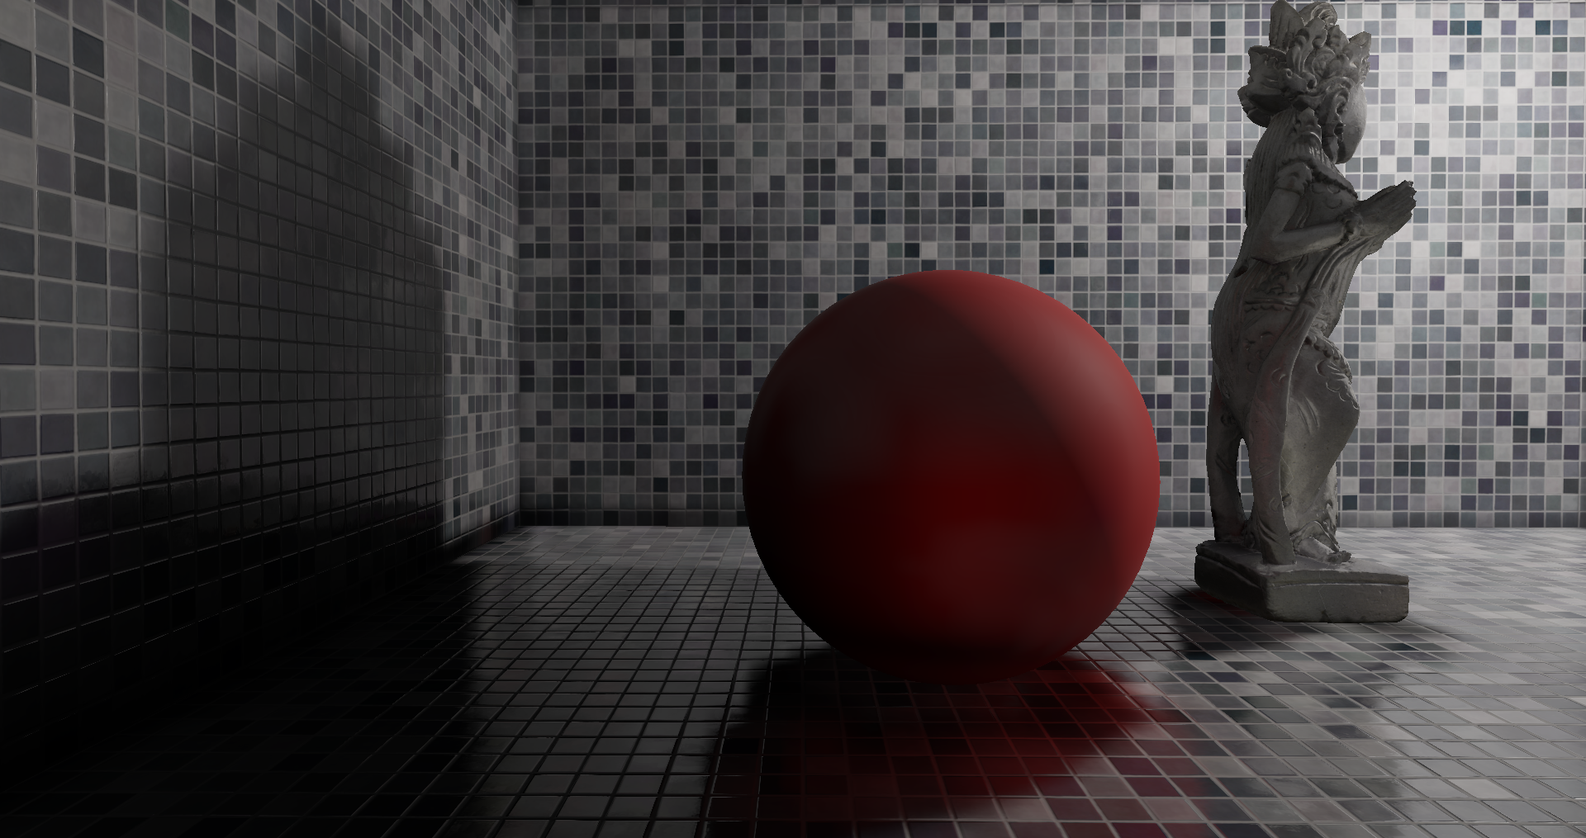
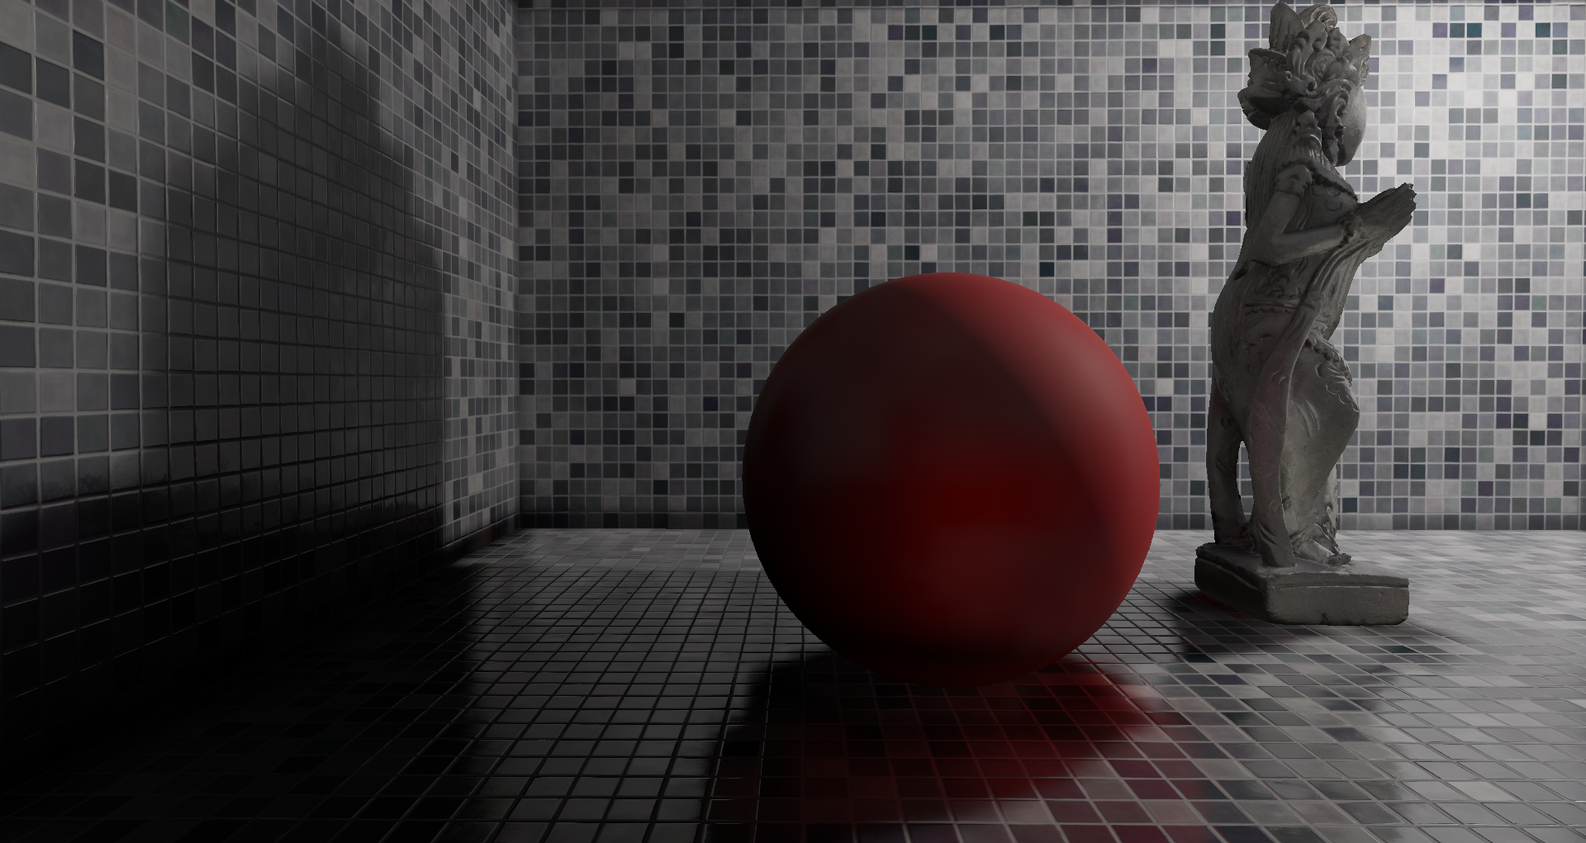
Create image comparison for emissive geometry on projects-gogaman page

diff --git a/projects-gogaman.html b/projects-gogaman.html
@@ -1,1 +1,1 @@
-<!DOCTYPE html><html lang="en"><head><meta charset="UTF-8"><meta name="viewport" content="width=device-width, initial-scale=1.0"><title>Feodor Volguine</title><link rel="stylesheet" href="style.sass.min.css" type="text/css" media="screen" charset="utf-8"><link rel="apple-touch-icon" sizes="180x180" href="images/favicon/apple-touch-icon.png"><link rel="icon" type="image/png" sizes="32x32" href="images/favicon/favicon-32x32.png"><link rel="icon" type="image/png" sizes="16x16" href="images/favicon/favicon-16x16.png"></head><body><header><a class="title" href="index.html"><h1 class="thin">Feodor Volguine</h1></a><a class="toggle-button" id="nav-main-toggle"><span></span><span></span><span></span></a><nav class="nav-main" id="nav-main"><ul><li><a href="career.html">Career</a></li><li><a href="projects-gogaman.html">Projects</a></li><li><a href="contact.html">Contact</a></li></ul></nav></header><section class="section-one2"><div class="nav-secondary"><ul><li><a href="projects-gogaman.html">Gogaman</a></li><li><a href="projects-workoutwatcher.html">Workout Watcher</a></li></ul></div><div class="content-container-unit"><div class="content-unit global-illumination"><div><h3>Real-time global illumination</h3><p>Light bouncing is simulated using a voxel cone tracing algorithm. This solution to GI requires no baking - light sources and geometry are fully dynamic.</p><br><a class="link" href="https://github.com/FeodorVolguine/Gogaman/blob/master/Gogaman/src/Platform/Vulkan/GL_Shaders/voxelConeTracing2.fs">View code &rsaquo;</a></div><img src="images/global-illumination.png"></div><div class="content-unit reflection"><div><h3>Reflections</h3><p>Cone tracing through the voxel structure enables reflections of out-of-view objects, but at a fraction of the cost of raytracing triangle geometry.</p><br><a class="link" href="https://github.com/FeodorVolguine/Gogaman/blob/master/Gogaman/src/Platform/Vulkan/GL_Shaders/voxelConeTracing2.fs">View code &rsaquo;</a></div><img src="images/reflections-1.png"></div><div class="content-unit emissive-geometry"><div><h3>Emissive geometry</h3><p></p><br><a class="link" href="https://github.com/FeodorVolguine/Gogaman/blob/master/Gogaman/src/Platform/Vulkan/GL_Shaders/voxelConeTracing2.fs">View code &rsaquo;</a></div><img src="images/emissive-on.png"></div><div class="content-unit tools"><div><h3>Tools</h3></div><!--img(src='images/emissive-on.png')--></div></div></section><footer class="base-container"><nav><a href="https://www.linkedin.com/in/feodorvolguine" target="_blank" aria-label="LinkedIn"><strong class="linkedIn-link">LinkedIn</strong></a><a href="mailto:feodorvolguine@gmail.com" target="_blank" aria-label="Email"><strong class="email-link">Email</strong></a><a href="https://www.github.com/feodorvolguine" target="_blank" aria-label="Github"><strong class="github-link">Github</strong></a></nav></footer><script src="client.js"></script></body></html>
+<!DOCTYPE html><html lang="en"><head><meta charset="UTF-8"><meta name="viewport" content="width=device-width, initial-scale=1.0"><title>Feodor Volguine</title><link rel="stylesheet" href="style.sass.min.css" type="text/css" media="screen" charset="utf-8"><link rel="apple-touch-icon" sizes="180x180" href="images/favicon/apple-touch-icon.png"><link rel="icon" type="image/png" sizes="32x32" href="images/favicon/favicon-32x32.png"><link rel="icon" type="image/png" sizes="16x16" href="images/favicon/favicon-16x16.png"></head><body><header><a class="title" href="index.html"><h1 class="thin">Feodor Volguine</h1></a><a class="toggle-button" id="nav-main-toggle"><span></span><span></span><span></span></a><nav class="nav-main" id="nav-main"><ul><li><a href="career.html">Career</a></li><li><a href="projects-gogaman.html">Projects</a></li><li><a href="contact.html">Contact</a></li></ul></nav></header><section class="section-one2"><div class="nav-secondary"><ul><li><a href="projects-gogaman.html">Gogaman</a></li><li><a href="projects-workoutwatcher.html">Workout Watcher</a></li></ul></div><div class="content-container-unit"><div class="content-unit global-illumination"><div class="unit-text"><h3>Real-time global illumination</h3><p>Light bouncing is simulated using a voxel cone tracing algorithm. This solution to GI requires no baking - light sources and geometry are fully dynamic.</p><br><a class="link" href="https://github.com/FeodorVolguine/Gogaman/blob/master/Gogaman/src/Platform/Vulkan/GL_Shaders/voxelConeTracing2.fs">View code &rsaquo;</a></div><img src="images/global-illumination.png"></div><div class="content-unit reflection"><div class="unit-text"><h3>Reflections</h3><p>Cone tracing through the voxel structure enables reflections of out-of-view objects, but at a fraction of the cost of raytracing triangle geometry.</p><br><a class="link" href="https://github.com/FeodorVolguine/Gogaman/blob/master/Gogaman/src/Platform/Vulkan/GL_Shaders/voxelConeTracing2.fs">View code &rsaquo;</a></div><img src="images/reflections-1.png"></div><div class="content-unit emissive-geometry"><div class="unit-text"><h3>Emissive geometry</h3><p>In addition to point and directional lights, geometry can have an emissive material that causes it to emit light.</p><br><a class="link" href="https://github.com/FeodorVolguine/Gogaman/blob/master/Gogaman/src/Platform/Vulkan/GL_Shaders/voxelConeTracing2.fs">View code &rsaquo;</a></div><div class="comparison-container" id="comparison-container"><img class="comparison" src="images/emissive-on.png"><img id="comparison-image-overlay" src="images/emissive-off.png"><div class="comparison-slider" id="comparison-slider"></div></div></div><div class="content-unit depth-of-field"><div class="unit-text"><h3>Depth of field</h3><p>A physical camera model combined with a separable circular convolution yields a nearly ground truth bokeh.</p><br><a class="link" href="https://github.com/FeodorVolguine/Gogaman/blob/master/Gogaman/src/Platform/Vulkan/GL_Shaders/voxelConeTracing2.fs">View code &rsaquo;</a></div><img src="images/depth-of-field.png"></div><div class="content-unit tools"><div class="unit-text"><h3>Tools</h3></div><!--img(src='images/emissive-on.png')--></div></div></section><footer class="base-container"><nav><a href="https://www.linkedin.com/in/feodorvolguine" target="_blank" aria-label="LinkedIn"><strong class="linkedIn-link">LinkedIn</strong></a><a href="mailto:feodorvolguine@gmail.com" target="_blank" aria-label="Email"><strong class="email-link">Email</strong></a><a href="https://www.github.com/feodorvolguine" target="_blank" aria-label="Github"><strong class="github-link">Github</strong></a></nav></footer><script src="client.js"></script></body></html>

diff --git a/style.sass.min.css b/style.sass.min.css
@@ -1,2 +1,2 @@
-html{font-size:100%}body{margin:0;height:100vh;padding:0;font-size:1.25rem;font-family:Alaska,sans-serif;letter-spacing:-0.5px;line-height:1.5;color:#1d1d1f;background-color:#fff}a{text-decoration:none}.link{color:#06c}li{margin:.25em}h1{text-align:center;font-size:4rem}h2{margin:0;font-size:3.5rem}h3{font-size:1rem}p{margin:0;font-size:.9rem}strong{font-weight:700}.thin{font-weight:300}.p-size-small{font-size:.8rem}.base-container{padding:3em 1em 3em 1em}@media(min-width: 1000px){.base-container{margin:auto;width:65%}}header{position:relative}header .title{position:relative;left:50%;transform:translateX(-50%);display:inline-block;padding:2em;font-family:Garamond,serif;color:#98838f}header .toggle-button{position:absolute;top:2rem;right:2rem;width:32px;height:24px;display:flex;flex-direction:column;justify-content:space-between;transition:transform 400ms ease-in-out}header .toggle-button span{width:100%;height:3px;background-color:#98838f;border-radius:12px}header .toggle-button:hover{cursor:pointer}header .toggle-button.active{transform:rotate(90deg)}header .nav-main{height:0;overflow:hidden;transition:height 400ms ease}header .nav-main ul{padding:.25em 0;display:flex;flex-direction:column;justify-content:space-between;list-style:none}header .nav-main ul li{margin:.5em 1em;text-align:center}header .nav-main ul li a{padding:.25em 0;letter-spacing:.075em;color:#98838f}header .nav-main ul li a:hover{border-bottom:2px solid #98838f;color:#98838f}header .nav-main.active{height:200px}footer nav{display:flex;justify-content:center}footer nav a{margin:0 .75em}footer nav a strong{font-size:.85em;color:gray}footer nav a .linkedIn-link:hover{color:#0a66c2}footer nav a .email-link:hover{color:#ea4335}footer nav a .github-link:hover{color:#333}.section-one h2{color:#1d1d1f}.section-one .cards{display:flex;flex-direction:column}.section-one .cards div{margin-bottom:1em;width:auto;padding:.75em;background-color:#fbfbfd}.section-one .cards div h4{color:#1d1d1f}.section-one .cards div p{color:#6e6e73}.section-one .cards div li{color:#6e6e73}@media(min-width: 750px){.cards{flex-direction:row !important}.cards div{margin-right:1em;width:250px !important}}.section-two{color:#e7e7e8;background-color:#424245}.section-three h2{color:#1d1d1f}.section-three div{margin-bottom:1em;padding:.75em;background-color:#fbfbfd}.section-three div p{color:#6e6e73}.nav-secondary ul{display:flex;justify-content:center;list-style:none}.nav-secondary ul a{color:#1d1d1f}.content-container-unit{display:grid;gap:50px}.content-unit{position:relative;width:100%;height:700px;display:flex;flex-direction:column;background-color:#fbfbfd;color:#1d1d1f}.content-unit div{z-index:1;padding:1.5em}.content-unit div h3{font-size:1.5em}.content-unit div p{font-size:1.1em}.content-unit img{position:absolute;bottom:0;width:100%;-o-object-fit:cover;object-fit:cover}@media(min-width: 1000px){.content-container-unit{margin:50px;grid-template-columns:repeat(2, 1fr)}}.global-illumination{background-color:#fffbe8}.reflection{background-color:#000;color:#fff}.emissive-geometry{background-color:#ff5f5f;color:#fff}
+html{font-size:100%}body{margin:0;height:100vh;padding:0;font-size:1.25rem;font-family:Alaska,sans-serif;letter-spacing:-0.5px;line-height:1.5;color:#1d1d1f;background-color:#fff}a{text-decoration:none}.link{color:#06c}.link:hover{border-bottom:2px solid #06c}li{margin:.25em}h1{text-align:center;font-size:4rem}h2{margin:0;font-size:3.5rem}h3{font-size:1rem}p{margin:0;font-size:.9rem}strong{font-weight:700}.thin{font-weight:300}.p-size-small{font-size:.8rem}.base-container{padding:3em 1em 3em 1em}@media(min-width: 1000px){.base-container{margin:auto;width:65%}}header{position:relative}header .title{position:relative;left:50%;transform:translateX(-50%);display:inline-block;padding:2em;font-family:Garamond,serif;color:#98838f}header .toggle-button{position:absolute;top:2rem;right:2rem;width:32px;height:24px;display:flex;flex-direction:column;justify-content:space-between;transition:transform 400ms ease-in-out}header .toggle-button span{width:100%;height:3px;background-color:#98838f;border-radius:12px}header .toggle-button:hover{cursor:pointer}header .toggle-button.active{transform:rotate(90deg)}header .nav-main{height:0;overflow:hidden;transition:height 400ms ease}header .nav-main ul{padding:.25em 0;display:flex;flex-direction:column;justify-content:space-between;list-style:none}header .nav-main ul li{margin:.5em 1em;text-align:center}header .nav-main ul li a{padding:.25em 0;letter-spacing:.075em;color:#98838f}header .nav-main ul li a:hover{border-bottom:2px solid #98838f;color:#98838f}header .nav-main.active{height:200px}footer nav{display:flex;justify-content:center}footer nav a{margin:0 .75em}footer nav a strong{font-size:.85em;color:gray}footer nav a .linkedIn-link:hover{color:#0a66c2}footer nav a .email-link:hover{color:#ea4335}footer nav a .github-link:hover{color:#333}.section-one h2{color:#1d1d1f}.section-one .cards{display:flex;flex-direction:column}.section-one .cards div{margin-bottom:1em;width:auto;padding:.75em;background-color:#fbfbfd}.section-one .cards div h4{color:#1d1d1f}.section-one .cards div p{color:#6e6e73}.section-one .cards div li{color:#6e6e73}@media(min-width: 750px){.cards{flex-direction:row !important}.cards div{margin-right:1em;width:250px !important}}.section-two{color:#e7e7e8;background-color:#424245}.section-three h2{color:#1d1d1f}.section-three div{margin-bottom:1em;padding:.75em;background-color:#fbfbfd}.section-three div p{color:#6e6e73}.nav-secondary ul{display:flex;justify-content:center;list-style:none}.nav-secondary ul a{color:#1d1d1f}.content-container-unit{display:grid;gap:50px}@media(min-width: 1000px){.content-container-unit{margin:50px;grid-template-columns:repeat(2, 1fr)}}.content-unit{position:relative;width:100%;height:700px;display:flex;flex-direction:column;background-color:#fbfbfd;color:#1d1d1f}.content-unit .unit-text{padding:1.5em}.content-unit .unit-text h3{font-size:1.5em}.content-unit .unit-text p{font-size:1.1rem}.content-unit img{position:absolute;bottom:0;width:100%;height:400px;-o-object-fit:cover;object-fit:cover}.global-illumination{background-color:#fffbe8}.reflection{background-color:#000;color:#fff}.emissive-geometry .comparison-container{position:absolute;bottom:0;width:100%;height:400px}.emissive-geometry .comparison-slider{z-index:9;position:absolute;width:4px;height:100%;cursor:ew-resize;background-color:#fbfbfd}
 /*# sourceMappingURL=style.sass.min.css.map */

diff --git a/projects-gogaman.sass.min.css b/projects-gogaman.sass.min.css
@@ -1,2 +1,2 @@
-html{font-size:100%}body{margin:0;height:100vh;padding:0;font-size:1.25rem;font-family:Alaska,sans-serif;letter-spacing:-0.5px;line-height:1.5;color:#1d1d1f;background-color:#fff}a{text-decoration:none}.link{color:#06c}li{margin:.25em}h1{text-align:center;font-size:4rem}h2{margin:0;font-size:3.5rem}h3{font-size:1rem}p{margin:0;font-size:.9rem}strong{font-weight:700}.thin{font-weight:300}.p-size-small{font-size:.8rem}.base-container{padding:3em 1em 3em 1em}@media(min-width: 1000px){.base-container{margin:auto;width:65%}}header{position:relative}header .title{position:relative;left:50%;transform:translateX(-50%);display:inline-block;padding:2em;font-family:Garamond,serif;color:#98838f}header .toggle-button{position:absolute;top:2rem;right:2rem;width:32px;height:24px;display:flex;flex-direction:column;justify-content:space-between;transition:transform 400ms ease-in-out}header .toggle-button span{width:100%;height:3px;background-color:#98838f;border-radius:12px}header .toggle-button:hover{cursor:pointer}header .toggle-button.active{transform:rotate(90deg)}header .nav-main{height:0;overflow:hidden;transition:height 400ms ease}header .nav-main ul{padding:.25em 0;display:flex;flex-direction:column;justify-content:space-between;list-style:none}header .nav-main ul li{margin:.5em 1em;text-align:center}header .nav-main ul li a{padding:.25em 0;letter-spacing:.075em;color:#98838f}header .nav-main ul li a:hover{border-bottom:2px solid #98838f;color:#98838f}header .nav-main.active{height:200px}footer nav{display:flex;justify-content:center}footer nav a{margin:0 .75em}footer nav a strong{font-size:.85em;color:gray}footer nav a .linkedIn-link:hover{color:#0a66c2}footer nav a .email-link:hover{color:#ea4335}footer nav a .github-link:hover{color:#333}.nav-secondary ul{display:flex;justify-content:center;list-style:none}.nav-secondary ul a{color:#1d1d1f}.content-container-unit{display:grid;gap:50px}.content-unit{position:relative;width:100%;height:700px;display:flex;flex-direction:column;background-color:#fbfbfd;color:#1d1d1f}.content-unit div{z-index:1;padding:1.5em}.content-unit div h3{font-size:1.5em}.content-unit div p{font-size:1.1em}.content-unit img{position:absolute;bottom:0;width:100%;-o-object-fit:cover;object-fit:cover}@media(min-width: 1000px){.content-container-unit{margin:50px;grid-template-columns:repeat(2, 1fr)}}.global-illumination{background-color:#fffbe8}.reflection{background-color:#000;color:#fff}.emissive-geometry{background-color:#ff5f5f;color:#fff}
+html{font-size:100%}body{margin:0;height:100vh;padding:0;font-size:1.25rem;font-family:Alaska,sans-serif;letter-spacing:-0.5px;line-height:1.5;color:#1d1d1f;background-color:#fff}a{text-decoration:none}.link{color:#06c}.link:hover{border-bottom:2px solid #06c}li{margin:.25em}h1{text-align:center;font-size:4rem}h2{margin:0;font-size:3.5rem}h3{font-size:1rem}p{margin:0;font-size:.9rem}strong{font-weight:700}.thin{font-weight:300}.p-size-small{font-size:.8rem}.base-container{padding:3em 1em 3em 1em}@media(min-width: 1000px){.base-container{margin:auto;width:65%}}header{position:relative}header .title{position:relative;left:50%;transform:translateX(-50%);display:inline-block;padding:2em;font-family:Garamond,serif;color:#98838f}header .toggle-button{position:absolute;top:2rem;right:2rem;width:32px;height:24px;display:flex;flex-direction:column;justify-content:space-between;transition:transform 400ms ease-in-out}header .toggle-button span{width:100%;height:3px;background-color:#98838f;border-radius:12px}header .toggle-button:hover{cursor:pointer}header .toggle-button.active{transform:rotate(90deg)}header .nav-main{height:0;overflow:hidden;transition:height 400ms ease}header .nav-main ul{padding:.25em 0;display:flex;flex-direction:column;justify-content:space-between;list-style:none}header .nav-main ul li{margin:.5em 1em;text-align:center}header .nav-main ul li a{padding:.25em 0;letter-spacing:.075em;color:#98838f}header .nav-main ul li a:hover{border-bottom:2px solid #98838f;color:#98838f}header .nav-main.active{height:200px}footer nav{display:flex;justify-content:center}footer nav a{margin:0 .75em}footer nav a strong{font-size:.85em;color:gray}footer nav a .linkedIn-link:hover{color:#0a66c2}footer nav a .email-link:hover{color:#ea4335}footer nav a .github-link:hover{color:#333}.nav-secondary ul{display:flex;justify-content:center;list-style:none}.nav-secondary ul a{color:#1d1d1f}.content-container-unit{display:grid;gap:50px}@media(min-width: 1000px){.content-container-unit{margin:50px;grid-template-columns:repeat(2, 1fr)}}.content-unit{position:relative;width:100%;height:700px;display:flex;flex-direction:column;background-color:#fbfbfd;color:#1d1d1f}.content-unit .unit-text{padding:1.5em}.content-unit .unit-text h3{font-size:1.5em}.content-unit .unit-text p{font-size:1.1rem}.content-unit img{position:absolute;bottom:0;width:100%;height:400px;-o-object-fit:cover;object-fit:cover}.global-illumination{background-color:#fffbe8}.reflection{background-color:#000;color:#fff}.emissive-geometry .comparison-container{position:absolute;bottom:0;width:100%;height:400px}.emissive-geometry .comparison-slider{z-index:9;position:absolute;width:4px;height:100%;cursor:ew-resize;background-color:#fbfbfd}
 /*# sourceMappingURL=projects-gogaman.sass.min.css.map */

diff --git a/base.sass.min.css b/base.sass.min.css
@@ -1,2 +1,2 @@
-html{font-size:100%}body{margin:0;height:100vh;padding:0;font-size:1.25rem;font-family:Alaska,sans-serif;letter-spacing:-0.5px;line-height:1.5;color:#1d1d1f;background-color:#fff}a{text-decoration:none}.link{color:#06c}li{margin:.25em}h1{text-align:center;font-size:4rem}h2{margin:0;font-size:3.5rem}h3{font-size:1rem}p{margin:0;font-size:.9rem}strong{font-weight:700}.thin{font-weight:300}.p-size-small{font-size:.8rem}.base-container{padding:3em 1em 3em 1em}@media(min-width: 1000px){.base-container{margin:auto;width:65%}}header{position:relative}header .title{position:relative;left:50%;transform:translateX(-50%);display:inline-block;padding:2em;font-family:Garamond,serif;color:#98838f}header .toggle-button{position:absolute;top:2rem;right:2rem;width:32px;height:24px;display:flex;flex-direction:column;justify-content:space-between;transition:transform 400ms ease-in-out}header .toggle-button span{width:100%;height:3px;background-color:#98838f;border-radius:12px}header .toggle-button:hover{cursor:pointer}header .toggle-button.active{transform:rotate(90deg)}header .nav-main{height:0;overflow:hidden;transition:height 400ms ease}header .nav-main ul{padding:.25em 0;display:flex;flex-direction:column;justify-content:space-between;list-style:none}header .nav-main ul li{margin:.5em 1em;text-align:center}header .nav-main ul li a{padding:.25em 0;letter-spacing:.075em;color:#98838f}header .nav-main ul li a:hover{border-bottom:2px solid #98838f;color:#98838f}header .nav-main.active{height:200px}footer nav{display:flex;justify-content:center}footer nav a{margin:0 .75em}footer nav a strong{font-size:.85em;color:gray}footer nav a .linkedIn-link:hover{color:#0a66c2}footer nav a .email-link:hover{color:#ea4335}footer nav a .github-link:hover{color:#333}
+html{font-size:100%}body{margin:0;height:100vh;padding:0;font-size:1.25rem;font-family:Alaska,sans-serif;letter-spacing:-0.5px;line-height:1.5;color:#1d1d1f;background-color:#fff}a{text-decoration:none}.link{color:#06c}.link:hover{border-bottom:2px solid #06c}li{margin:.25em}h1{text-align:center;font-size:4rem}h2{margin:0;font-size:3.5rem}h3{font-size:1rem}p{margin:0;font-size:.9rem}strong{font-weight:700}.thin{font-weight:300}.p-size-small{font-size:.8rem}.base-container{padding:3em 1em 3em 1em}@media(min-width: 1000px){.base-container{margin:auto;width:65%}}header{position:relative}header .title{position:relative;left:50%;transform:translateX(-50%);display:inline-block;padding:2em;font-family:Garamond,serif;color:#98838f}header .toggle-button{position:absolute;top:2rem;right:2rem;width:32px;height:24px;display:flex;flex-direction:column;justify-content:space-between;transition:transform 400ms ease-in-out}header .toggle-button span{width:100%;height:3px;background-color:#98838f;border-radius:12px}header .toggle-button:hover{cursor:pointer}header .toggle-button.active{transform:rotate(90deg)}header .nav-main{height:0;overflow:hidden;transition:height 400ms ease}header .nav-main ul{padding:.25em 0;display:flex;flex-direction:column;justify-content:space-between;list-style:none}header .nav-main ul li{margin:.5em 1em;text-align:center}header .nav-main ul li a{padding:.25em 0;letter-spacing:.075em;color:#98838f}header .nav-main ul li a:hover{border-bottom:2px solid #98838f;color:#98838f}header .nav-main.active{height:200px}footer nav{display:flex;justify-content:center}footer nav a{margin:0 .75em}footer nav a strong{font-size:.85em;color:gray}footer nav a .linkedIn-link:hover{color:#0a66c2}footer nav a .email-link:hover{color:#ea4335}footer nav a .github-link:hover{color:#333}
 /*# sourceMappingURL=base.sass.min.css.map */

diff --git a/client.js b/client.js
@@ -1,4 +1,45 @@
+//Utility
+const Clamp = (x, min, max) => Math.min(Math.max(x, min), max);
+
+//Main navigation
 const navToggle = document.getElementById('nav-main-toggle');
 const nav = document.getElementById('nav-main');
 
 navToggle.addEventListener('click', () => { navToggle.classList.toggle('active'); nav.classList.toggle('active'); });
+
+//Initialize image comparison
+const overlay = document.getElementById('comparison-image-overlay');
+
+let width = overlay.offsetWidth, height = overlay.offsetHeight;
+//overlay.style.width = (width / 2) + 'px';
+overlay.style.clipPath = 'polygon(0 0, 50% 0, 50% 100%, 0 100%)';
+
+let isMouseHover = false;
+const comparisonContainer = document.getElementById('comparison-container');
+comparisonContainer.addEventListener('mouseover', (event) => { isMouseHover = true; });
+comparisonContainer.addEventListener('mouseleave', (event) => { isMouseHover = false; });
+
+//Initialize slider
+let slider = document.getElementById('comparison-slider');
+//slider.setAttribute('class', 'comparison-slider');
+//overlay.parentElement.insertBefore(slider, overlay);
+slider.style.top = (height / 2) - (slider.offsetHeight / 2) + 'px';
+slider.style.left = (width / 2) - (slider.offsetWidth / 2) + 'px';
+
+function UpdateComparison(event)
+{
+    if(isMouseHover)
+    {
+        //Calculate relative cursor position
+        event = event.changedTouches ? event.changedTouches[0] : event;
+        let position = event.pageX - overlay.getBoundingClientRect().left;
+        position = Clamp(position, 0, width);
+
+        //Update
+        overlay.style.clipPath = 'polygon(0 0, ' + position + 'px 0, ' + position + 'px 100%, 0 100%)';
+        slider.style.left = position - (slider.offsetWidth / 2) + 'px';
+    }
+}
+
+window.addEventListener('mousemove', UpdateComparison);
+window.addEventListener('touchmove', UpdateComparison);

diff --git a/projects-gogaman.sass b/projects-gogaman.sass
@@ -16,6 +16,11 @@
     display: grid
     gap: 50px
 
+@media (min-width: 1000px)
+    .content-container-unit
+        margin: 50px
+        grid-template-columns: repeat(2, 1fr)
+
 .content-unit
     position: relative
     width: 100%
@@ -27,28 +32,22 @@
     background-color: colors.$whisper
     color: colors.$text-dark
 
-    div
-        z-index: 1
-
+    .unit-text
         padding: 1.5em
 
         h3
             font-size: 1.5em
 
         p
-            font-size: 1.1em
+            font-size: 1.1rem
 
     img
         position: absolute
         bottom: 0
         width: 100%
+        height: 400px
 
         object-fit: cover
-
-@media (min-width: 1000px)
-    .content-container-unit
-        margin: 50px
-        grid-template-columns: repeat(2, 1fr)
 
 .global-illumination
     background-color: #fffbe8
@@ -58,5 +57,19 @@
     color: white
 
 .emissive-geometry
-    background-color: #ff5f5f
-    color: white
+    .comparison-container
+        position: absolute
+        bottom: 0
+        width: 100%
+        height: 400px
+
+    .comparison-slider
+        z-index: 9
+        position: absolute
+        width: 4px
+        height: 100%
+        
+        cursor: ew-resize
+        background-color: colors.$whisper
+
+.depth-of-field

diff --git a/base.sass b/base.sass
@@ -21,7 +21,10 @@ a
     text-decoration: none
 
 .link
-    color: #06c
+    color: colors.$link
+
+    &:hover
+     border-bottom: 2px solid colors.$link
 
 li
     margin: 0.25em

diff --git a/colors.sass b/colors.sass
@@ -8,6 +8,7 @@ $background-neutral: #424245
 $text-light: #e7e7e8
 $text-neutral: #6e6e73
 $text-dark: #1d1d1f
+$link: #06c
 
 //Social media colors
 $linkedin: #0a66c2ff
